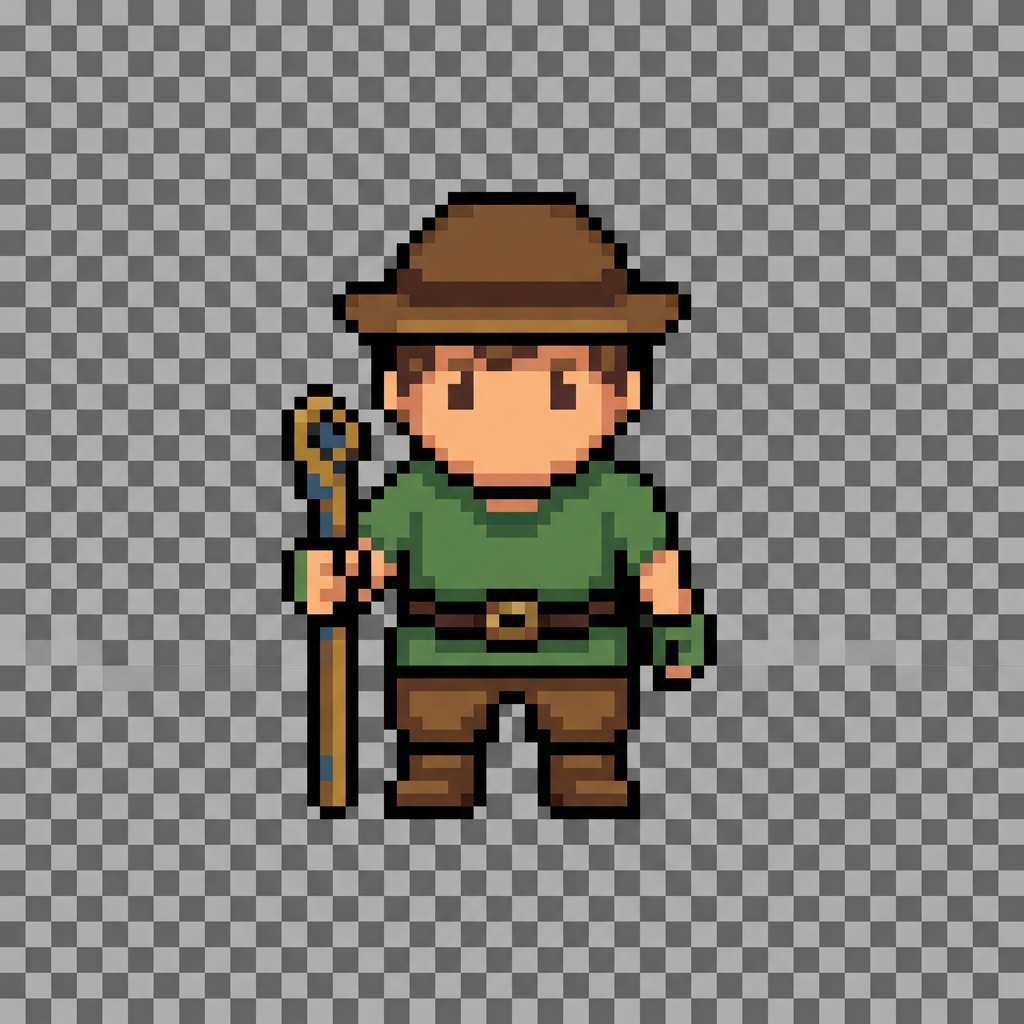
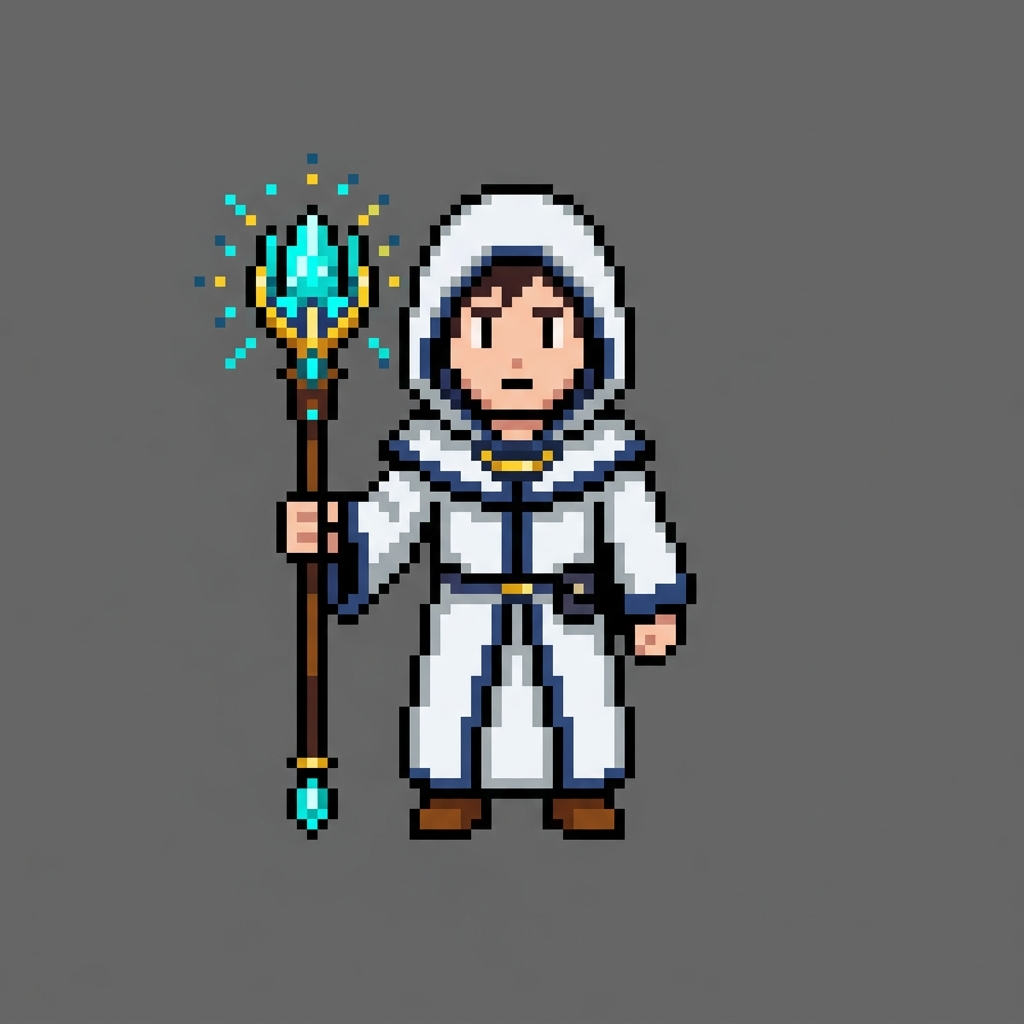
Add Mage Sprite, Magic, and Camera Zoom

diff --git a/level.py b/level.py
@@ -1,6 +1,7 @@
 import pygame
 from settings import *
 from player import Player
+from magic import MagicProjectile
 
 class Tile(pygame.sprite.Sprite):
     def __init__(self, pos, groups, sprite_type, surface=pygame.Surface((TILESIZE, TILESIZE))):
@@ -8,18 +9,14 @@ class Tile(pygame.sprite.Sprite):
         self.sprite_type = sprite_type
         self.image = surface
         self.rect = self.image.get_rect(topleft=pos)
-        self.hitbox = self.rect.inflate(0, -10) # 3D overlap effect
+        self.hitbox = self.rect.inflate(0, -10)
 
 class Level:
     def __init__(self):
-        # Get display surface
         self.display_surface = pygame.display.get_surface()
-
-        # Sprite groups
         self.visible_sprites = YSortCameraGroup()
         self.obstacle_sprites = pygame.sprite.Group()
-
-        # Setup level
+        self.projectiles = pygame.sprite.Group()
         self.create_map()
 
     def create_map(self):
@@ -36,15 +33,17 @@ class Level:
             'xxxxxxxxxxxxxxxxxxxx'
         ]
 
-        # Load images safely
         try:
-            rock_img = pygame.transform.scale(pygame.image.load('assets/rock.jpg').convert_alpha(), (TILESIZE, TILESIZE))
+            image = pygame.image.load('assets/rock.jpg').convert()
+            colorkey = image.get_at((0, 0))
+            image.set_colorkey(colorkey)
+            rock_img = pygame.transform.scale(image, (TILESIZE, TILESIZE))
         except:
             rock_img = pygame.Surface((TILESIZE, TILESIZE))
             rock_img.fill('gray')
             
         try:
-            self.grass_img = pygame.transform.scale(pygame.image.load('assets/grass.jpg').convert_alpha(), (TILESIZE, TILESIZE))
+            self.grass_img = pygame.transform.scale(pygame.image.load('assets/grass.jpg').convert(), (TILESIZE, TILESIZE))
         except:
             self.grass_img = pygame.Surface((TILESIZE, TILESIZE))
             self.grass_img.fill('green')
@@ -53,25 +52,27 @@ class Level:
             for col_index, col in enumerate(row):
                 x = col_index * TILESIZE
                 y = row_index * TILESIZE
-                
                 if col == 'x':
-                    Tile((x, y), [self.visible_sprites, self.obstacle_sprites], 'invisible') # Border
+                    Tile((x, y), [self.visible_sprites, self.obstacle_sprites], 'invisible')
                 if col == 'r':
                     Tile((x, y), [self.visible_sprites, self.obstacle_sprites], 'object', rock_img)
                 if col == 'p':
-                    self.player = Player((x, y), [self.visible_sprites], self.obstacle_sprites)
+                    self.player = Player((x, y), [self.visible_sprites], self.obstacle_sprites, self.create_magic)
 
-    def draw_bg(self):
-        # Draw grass tiles everywhere for testing
-        for x in range(-5, 25):
-            for y in range(-5, 15):
-                pos = (x * TILESIZE - self.visible_sprites.offset.x, y * TILESIZE - self.visible_sprites.offset.y)
-                self.display_surface.blit(self.grass_img, pos)
+    def create_magic(self, pos):
+        mouse_pos = pygame.mouse.get_pos()
+        
+        # Convert screen mouse pos to world pos based on zoom and offset
+        world_mouse_x = (mouse_pos[0] - self.visible_sprites.half_width) / self.visible_sprites.zoom_scale + self.player.rect.centerx
+        world_mouse_y = (mouse_pos[1] - self.visible_sprites.half_height) / self.visible_sprites.zoom_scale + self.player.rect.centery
+        
+        target_pos = (world_mouse_x, world_mouse_y)
+        MagicProjectile(pos, target_pos, [self.visible_sprites, self.projectiles], self.obstacle_sprites)
 
     def run(self):
-        self.draw_bg()
-        self.visible_sprites.custom_draw(self.player)
+        self.visible_sprites.custom_draw(self.player, self.grass_img)
         self.visible_sprites.update()
+        self.projectiles.update()
 
 class YSortCameraGroup(pygame.sprite.Group):
     def __init__(self):
@@ -80,16 +81,34 @@ class YSortCameraGroup(pygame.sprite.Group):
         self.half_width = self.display_surface.get_size()[0] // 2
         self.half_height = self.display_surface.get_size()[1] // 2
         self.offset = pygame.math.Vector2()
+        
+        # Zoom setup
+        self.zoom_scale = 1.0
+        self.internal_surface_size = (2500, 2500)
+        self.internal_surface = pygame.Surface(self.internal_surface_size, pygame.SRCALPHA)
+        self.internal_rect = self.internal_surface.get_rect(center = (self.half_width, self.half_height))
+        self.internal_surface_size_vector = pygame.math.Vector2(self.internal_surface_size)
 
-    def custom_draw(self, player):
-        # Get offset
-        self.offset.x = player.rect.centerx - self.half_width
-        self.offset.y = player.rect.centery - self.half_height
+    def custom_draw(self, player, grass_img):
+        self.internal_surface.fill(BG_COLOR)
 
-        # Draw sprites sorted by Y
+        self.offset.x = player.rect.centerx - self.internal_surface_size[0] // 2
+        self.offset.y = player.rect.centery - self.internal_surface_size[1] // 2
+
+        # Draw grass
+        for x in range(0, 30):
+            for y in range(0, 20):
+                pos = (x * TILESIZE - self.offset.x, y * TILESIZE - self.offset.y)
+                self.internal_surface.blit(grass_img, pos)
+
+        # Draw sprites
         for sprite in sorted(self.sprites(), key=lambda sprite: sprite.rect.centery):
-            # Only draw if not invisible border
             if hasattr(sprite, 'sprite_type') and sprite.sprite_type == 'invisible':
                 continue
             offset_pos = sprite.rect.topleft - self.offset
-            self.display_surface.blit(sprite.image, offset_pos)
+            self.internal_surface.blit(sprite.image, offset_pos)
+
+        # Scale and blit internal surface
+        scaled_surf = pygame.transform.scale(self.internal_surface, self.internal_surface_size_vector * self.zoom_scale)
+        scaled_rect = scaled_surf.get_rect(center = (self.half_width, self.half_height))
+        self.display_surface.blit(scaled_surf, scaled_rect)

diff --git a/player.py b/player.py
@@ -2,26 +2,33 @@ import pygame
 from settings import *
 
 class Player(pygame.sprite.Sprite):
-    def __init__(self, pos, groups, obstacle_sprites):
+    def __init__(self, pos, groups, obstacle_sprites, create_magic):
         super().__init__(groups)
-        # We load the image and scale it
+        self.create_magic = create_magic
         try:
-            image = pygame.image.load('assets/player.jpg').convert_alpha()
+            image = pygame.image.load('assets/player.jpg').convert()
+            colorkey = image.get_at((0, 0))
+            image.set_colorkey(colorkey)
             self.image = pygame.transform.scale(image, (TILESIZE, TILESIZE))
         except:
-            # Fallback if image not found
             self.image = pygame.Surface((TILESIZE, TILESIZE))
             self.image.fill('red')
             
         self.rect = self.image.get_rect(topleft=pos)
-        self.hitbox = self.rect.inflate(-10, -26) # Slightly smaller hitbox for top-down depth
+        self.hitbox = self.rect.inflate(-10, -26)
 
         self.direction = pygame.math.Vector2()
         self.speed = 5
         self.obstacle_sprites = obstacle_sprites
+        
+        # Magic cooldown
+        self.can_shoot = True
+        self.shoot_time = 0
+        self.shoot_cooldown = 400 # ms
 
     def input(self):
         keys = pygame.key.get_pressed()
+        mouse_buttons = pygame.mouse.get_pressed()
 
         if keys[pygame.K_w] or keys[pygame.K_UP]:
             self.direction.y = -1
@@ -37,8 +44,18 @@ class Player(pygame.sprite.Sprite):
         else:
             self.direction.x = 0
 
+        if mouse_buttons[0] and self.can_shoot: # Left click
+            self.can_shoot = False
+            self.shoot_time = pygame.time.get_ticks()
+            self.create_magic(self.rect.center)
+
+    def cooldowns(self):
+        current_time = pygame.time.get_ticks()
+        if not self.can_shoot:
+            if current_time - self.shoot_time >= self.shoot_cooldown:
+                self.can_shoot = True
+
     def move(self, speed):
-        # Normalize direction vector so diagonal movement isn't faster
         if self.direction.magnitude() != 0:
             self.direction = self.direction.normalize()
 
@@ -52,19 +69,20 @@ class Player(pygame.sprite.Sprite):
         if direction == 'horizontal':
             for sprite in self.obstacle_sprites:
                 if sprite.hitbox.colliderect(self.hitbox):
-                    if self.direction.x > 0: # Moving right
+                    if self.direction.x > 0:
                         self.hitbox.right = sprite.hitbox.left
-                    if self.direction.x < 0: # Moving left
+                    if self.direction.x < 0:
                         self.hitbox.left = sprite.hitbox.right
 
         if direction == 'vertical':
             for sprite in self.obstacle_sprites:
                 if sprite.hitbox.colliderect(self.hitbox):
-                    if self.direction.y > 0: # Moving down
+                    if self.direction.y > 0:
                         self.hitbox.bottom = sprite.hitbox.top
-                    if self.direction.y < 0: # Moving up
+                    if self.direction.y < 0:
                         self.hitbox.top = sprite.hitbox.bottom
 
     def update(self):
         self.input()
+        self.cooldowns()
         self.move(self.speed)

diff --git a/magic.py b/magic.py
@@ -1,0 +1,45 @@
+import pygame
+import math
+from settings import *
+
+class MagicProjectile(pygame.sprite.Sprite):
+    def __init__(self, pos, target_pos, groups, obstacle_sprites):
+        super().__init__(groups)
+        try:
+            image = pygame.image.load('assets/magic.jpg').convert()
+            colorkey = image.get_at((0, 0))
+            image.set_colorkey(colorkey)
+            self.image = pygame.transform.scale(image, (TILESIZE//2, TILESIZE//2))
+        except:
+            self.image = pygame.Surface((TILESIZE//2, TILESIZE//2))
+            self.image.fill('blue')
+        
+        self.rect = self.image.get_rect(center=pos)
+        self.hitbox = self.rect.inflate(0, 0)
+        
+        self.speed = 10
+        self.obstacle_sprites = obstacle_sprites
+        
+        # Calculate direction
+        dx = target_pos[0] - pos[0]
+        dy = target_pos[1] - pos[1]
+        distance = math.hypot(dx, dy)
+        
+        if distance == 0:
+            self.direction = pygame.math.Vector2(0, 1)
+        else:
+            self.direction = pygame.math.Vector2(dx/distance, dy/distance)
+
+    def update(self):
+        self.rect.x += self.direction.x * self.speed
+        self.rect.y += self.direction.y * self.speed
+        self.hitbox.center = self.rect.center
+        
+        # Check collision with rocks
+        for sprite in self.obstacle_sprites:
+            if sprite.hitbox.colliderect(self.hitbox):
+                # Destroy the rock (remove from all groups)
+                if getattr(sprite, 'sprite_type', '') == 'object':
+                    sprite.kill()
+                # Destroy projectile
+                self.kill()

diff --git a/main.py b/main.py
@@ -17,6 +17,13 @@ class Game:
                 if event.type == pygame.QUIT:
                     pygame.quit()
                     sys.exit()
+                if event.type == pygame.MOUSEWHEEL:
+                    self.level.visible_sprites.zoom_scale += event.y * 0.1
+                    # Clamp zoom
+                    if self.level.visible_sprites.zoom_scale < 0.5:
+                        self.level.visible_sprites.zoom_scale = 0.5
+                    if self.level.visible_sprites.zoom_scale > 2.0:
+                        self.level.visible_sprites.zoom_scale = 2.0
 
             self.screen.fill(BG_COLOR)
             self.level.run()
